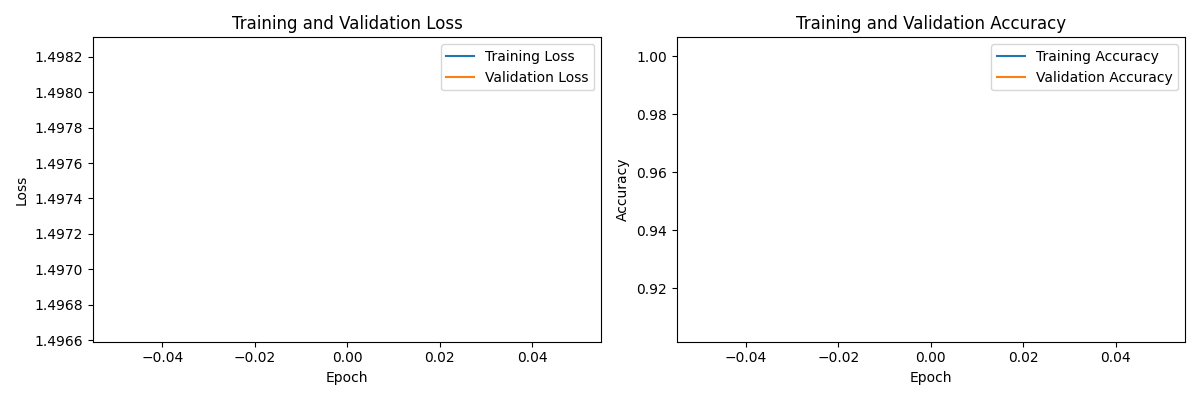
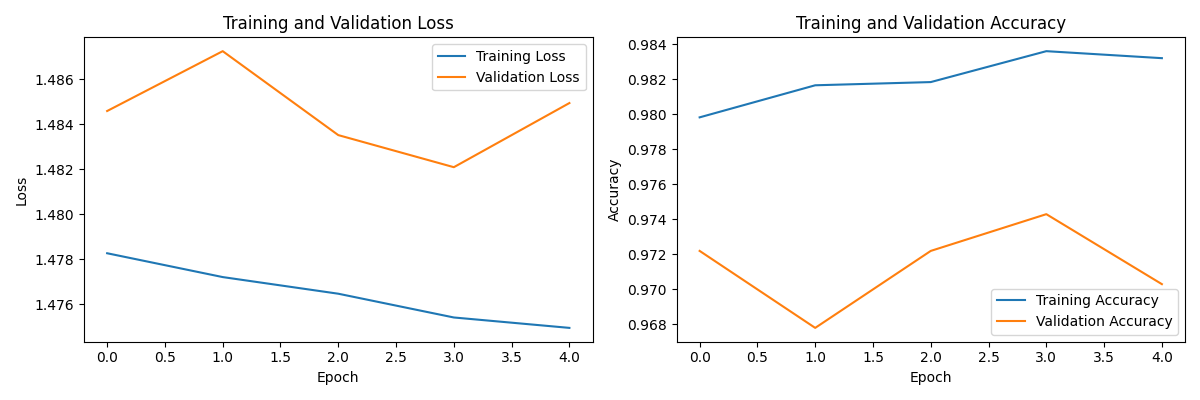
update the training

diff --git a/NeuroSpike-MNIST/src/training/trainer.py b/NeuroSpike-MNIST/src/training/trainer.py
@@ -13,6 +13,7 @@ class SNNTrainer:
     def train_epoch(self, train_loader):
         self.model.train()
         total_loss = 0
+        correct = 0
         
         for batch_idx, (data, target) in enumerate(tqdm(train_loader)):
             data, target = data.to(self.device), target.to(self.device)
@@ -27,13 +28,19 @@ class SNNTrainer:
             # Calculate loss
             loss = self.criterion(spike_output, target)
             
+            # Calculate accuracy
+            pred = spike_output.argmax(dim=1)
+            correct += pred.eq(target).sum().item()
+            
             # Backward pass
             loss.backward()
             self.optimizer.step()
             
             total_loss += loss.item()
         
-        return total_loss / len(train_loader)
+        avg_loss = total_loss / len(train_loader)
+        accuracy = correct / len(train_loader.dataset)
+        return avg_loss, accuracy
     
     def validate(self, val_loader):
         self.model.eval()
@@ -76,26 +83,27 @@ class SNNTrainer:
         
         for epoch in range(epochs):
             # Training
-            train_loss = self.train_epoch(train_loader)
+            train_loss, train_acc = self.train_epoch(train_loader)
             metrics['train_loss'].append(train_loss)
+            metrics['train_acc'].append(train_acc)
             
             # Validation
-            val_loss, accuracy = self.validate(val_loader)
+            val_loss, val_acc = self.validate(val_loader)
             metrics['val_loss'].append(val_loss)
-            metrics['val_acc'].append(accuracy)
+            metrics['val_acc'].append(val_acc)
             
             print(f'Epoch {epoch+1}/{epochs}:')
-            print(f'Train Loss: {train_loss:.4f}')
-            print(f'Val Loss: {val_loss:.4f}, Val Acc: {accuracy:.4f}')
+            print(f'Train Loss: {train_loss:.4f}, Train Acc: {train_acc:.4f}')
+            print(f'Val Loss: {val_loss:.4f}, Val Acc: {val_acc:.4f}')
             
             # Save best model
-            if accuracy > best_accuracy:
-                best_accuracy = accuracy
+            if val_acc > best_accuracy:
+                best_accuracy = val_acc
                 torch.save({
                     'model_state_dict': self.model.state_dict(),
                     'optimizer_state_dict': self.optimizer.state_dict(),
-                    'accuracy': accuracy,
+                    'accuracy': val_acc,
                     'epoch': epoch
                 }, checkpoint_path)
         
-        return metrics  # Add this line to return the metrics dictionary
+        return metrics
